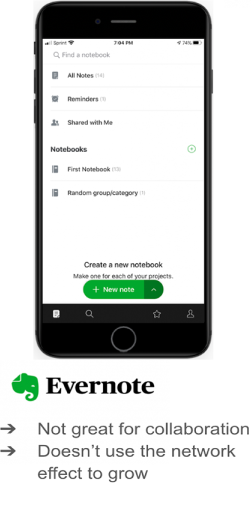
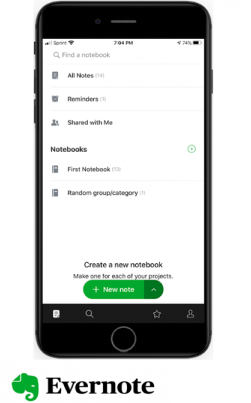
css

diff --git a/project.html b/project.html
@@ -150,9 +150,17 @@
                   <a href="drive.google.com">View competitive analysis ➙</a>
               </article>
               <br>
-              <div class="competitive-analysis-images">
-                  <img src="images/cloudspark/dropbox.png" alt="Dropbox" class="competitive-analysis-images">
-                  <img src="images/cloudspark/evernote.png" alt="Evernote" class="competitive-analysis-images">
+              <div class="competitive-analysis-columns">
+                <div class="dropbox-vs-evernote">
+                  <img src="images/cloudspark/dropbox.png" alt="Dropbox" class="competitive-analysis-columns">
+                  <br>
+                  <p>-Hard to keep things organized</p>
+                </div>
+                <div class="dropbox-vs-evernote">
+                  <img src="images/cloudspark/evernote.png" alt="Evernote" class="competitive-analysis-columns">
+                  <br>
+                  <p>-Not great for collaboration<br>-Doesn’t use the network effect to grow</p>
+                </div>
               </div>
           </div>
           <div class="user-stories">
@@ -200,9 +208,9 @@
                 </article>
                 <br>
                 <div class="wireframe-images">
-                <img src="images/cloudspark/wireframe1.png" alt="Wireframe1" class="wireframe">
-                <img src="images/cloudspark/wireframe2.png" alt="Wireframe2" class="wireframe">
-                <img src="images/cloudspark/wireframe3.png" alt="Wireframe3" class="wireframe">
+                    <img src="images/cloudspark/wireframe1.png" alt="Wireframe1" class="wireframe">
+                    <img src="images/cloudspark/wireframe2.png" alt="Wireframe2" class="wireframe">
+                    <img src="images/cloudspark/wireframe3.png" alt="Wireframe3" class="wireframe">
              </div>
              </div>
              <div class="user-testing">
@@ -306,10 +314,10 @@
                 <article class="what-i-learned">
                    <h4>What I learned</h4>
                    <br>
-                   <p>• Had a lot of success with a list view design and slide up contextual menus</p>
-                   <p>• Learned the importance of performing tasks in as few clicks as possible </p>
-                   <p>• If time allowed, would have done additional research into more niche markets </p>
-                   <p>• I initially had doubts there was any room for a new app in a competitive market, but when we discovered through our research that users were frustrated by the difficulty of keeping files organized, we realized there was an opportunity to create an app that had better organizational features.</p>
+                   <p>- Had a lot of success with a list view design and slide up contextual menus</p>
+                   <p>- Learned the importance of performing tasks in as few clicks as possible </p>
+                   <p>- If time allowed, would have done additional research into more niche markets </p>
+                   <p>- I initially had doubts there was any room for a new app in a competitive market, but when we discovered through our research that users were frustrated by the difficulty of keeping files organized, we realized there was an opportunity to create an app that had better organizational features.</p>
                 </article>
                 </div>
                 <div class="back-to-top">

diff --git a/css/style.css b/css/style.css
@@ -33,21 +33,21 @@ header {
 
 /*** Navigation bar ***/
 .nav {
+  align-items: center;
   background-color: white;
-  /* margin: auto; */
+  margin: auto;
   position: fixed;
-  /* padding: 2rem;
+  padding: 2rem;
   width: 100%;
-  z-index: 10; */
-  width: 100vw;
-  padding: 10vh 15vw 5vh 15vw;
+  z-index: 10;
+  /* width: 100vw;
+  padding: 10vh 15vw 5vh 15vw; */
 }
 .nav-menu-container {
   display: none;
 }
 .personal-logo {
   float: left;
-  padding-top: 2%;
 }
 .hamburger-menu {
   float: right;
@@ -67,12 +67,15 @@ main.case-studies {
   margin-top: 3%;
 }
 .case-study-btn {
+  color: #0E8F8F;
   border: 2px solid #0E8F8F;
   border-radius: 8px;
   font-family: 'Montserrat', 'Muli', Helvetica, Arial, sans-serif;
+  font-size: 1.4em;
   padding: 15px 32px;
   text-align: center;
-  margin-bottom: 3%;
+  margin-bottom: 5%;
+  text-decoration: none;
 }
 .case-study-btn a {
   color: #0E8F8F;
@@ -183,7 +186,7 @@ article.short-bio {
 .design-process {
   font-size: 1.4em;
   font-family: 'Montserrat', 'Muli', Helvetica, Arial, sans-serif;
-  margin: 1em;
+  margin: 2em;
   text-align: center;
 }
 
@@ -195,9 +198,9 @@ p.process-tagline {
   text-align: center;
 }
 .process-icon {
-  width: 100%;
   text-align: center;
   padding-top: 4%;
+  width: 100%;
 }
 .list {
   line-height: 140%;
@@ -260,10 +263,13 @@ address {
     font-family: 'Domine', Georgia, Times, serif;
     line-height: 160%;
   }
+  header {
+
+  }
   .container {
+    /* max-width: 768px; */
     display: flex;
     flex-direction: column;
-    margin: 0 auto;
     width: 80rem;
   }
   .nav {
@@ -271,7 +277,6 @@ address {
     display: flex;
     flex-direction: row;
     justify-content: space-between;
-    padding-left: 0rem;
     width: 80rem;
   }
   .hamburger-menu {
@@ -349,6 +354,7 @@ address {
     width: 70%;
   }
   .four-steps {
+    align-items: center;
     display: flex;
     flex-direction: row;
     justify-content: space-evenly;
@@ -379,7 +385,6 @@ address {
     display: flex;
     flex-direction: row;
     justify-content: space-between;
-    padding-left: 0rem;
     width: 100rem;
   }
   .hero {
@@ -391,17 +396,15 @@ address {
   .tag {
     font-size: 1.8rem;
   }
-  .case-study-btn a {
-    font-size: 1.8em;
+  .case-study-btn {
+    font-size: 1.4em;
     text-decoration: none;
   }
   .cloudspark-case-study {
-    font-size: 2rem;
     text-align: left;
     width: 100rem;
   }
   .busybus-case-study {
-    font-size: 2rem;
     text-align: left;
     width: 100rem;
   }
@@ -441,7 +444,9 @@ address {
     font-size: 1.8rem;
   }
   .testimonials {
-
+    background-color: #EDEBEB;
+    margin: 0 -9999rem;
+    padding: 5rem 9999rem;
   }
 
 

diff --git a/css/cloudspark.css b/css/cloudspark.css
@@ -19,7 +19,7 @@ body {
 p {
   font-size: 2rem;
   font-family: 'Muli', Helvetica, Arial, sans-serif;
-  line-height: 140%;
+  line-height: 160%;
 }
 
 a {
@@ -58,7 +58,7 @@ h4 {
   text-align: left;
 }
 ul {
-  font-family: 'Muli', 'Montserrat', Helvetica, Arial, sans-serif;
+  font-family: 'Montserrat', Helvetica, Arial, sans-serif;
   font-size: 2.2em;
   line-height: 160%;
 }
@@ -179,7 +179,7 @@ article.personas {
 .competitive-analysis {
   margin-bottom: 5%;
 }
-.competitive-analysis-images {
+.competitive-analysis-columns {
   /* text-align: center; */
   margin-bottom: 5%;
   margin-left: 7%;
@@ -212,7 +212,7 @@ article.personas {
   width: 100%;
 }
 .wireframe-images {
-  text-align: center;
+
 }
 .user-testing {
   background-color: #EDEBEB;
@@ -373,8 +373,8 @@ address {
   }
   h1 {
     font-size: 4em;
-    padding-bottom: 5%;
-    padding-top: 5%;
+    padding-bottom: 8%;
+    padding-top: 8%;
     text-align: left;
   }
   h3 {
@@ -508,13 +508,15 @@ address {
   }
   .competitive-analysis {
     padding-top: 6%;
+    width: 100%;
   }
-  .competitive-analysis-images {
+  .competitive-analysis-columns {
     display: flex;
     flex-direction: row;
-    justify-content: center;
-    padding-right: 5%;
-    width: 90%;
+    justify-content: space-between;
+  }
+  .dropbox-vs-evernote {
+    text-align: left;
   }
   .user-stories {
     display: flex;
@@ -603,8 +605,8 @@ address {
     width: 100%;
   }
   article.what-i-learned {
-    padding-top: 7%;
-    width: 80%;
+    line-height: 180%;
+    width: 80rem;
   }
 }
 

diff --git a/index.html b/index.html
@@ -161,7 +161,7 @@
                 <img src="images/homepage/testing-validation-icon.png" alt="validation">
               </div>
               <div class="process-list">
-                <p class="bold">Testing and Validation</h5>
+                <p class="bold">Testing and Validation</p>
                 <ul class="list">
                   <li>Usability testing</li>
                   <li>Interactive Prototypes</li>
